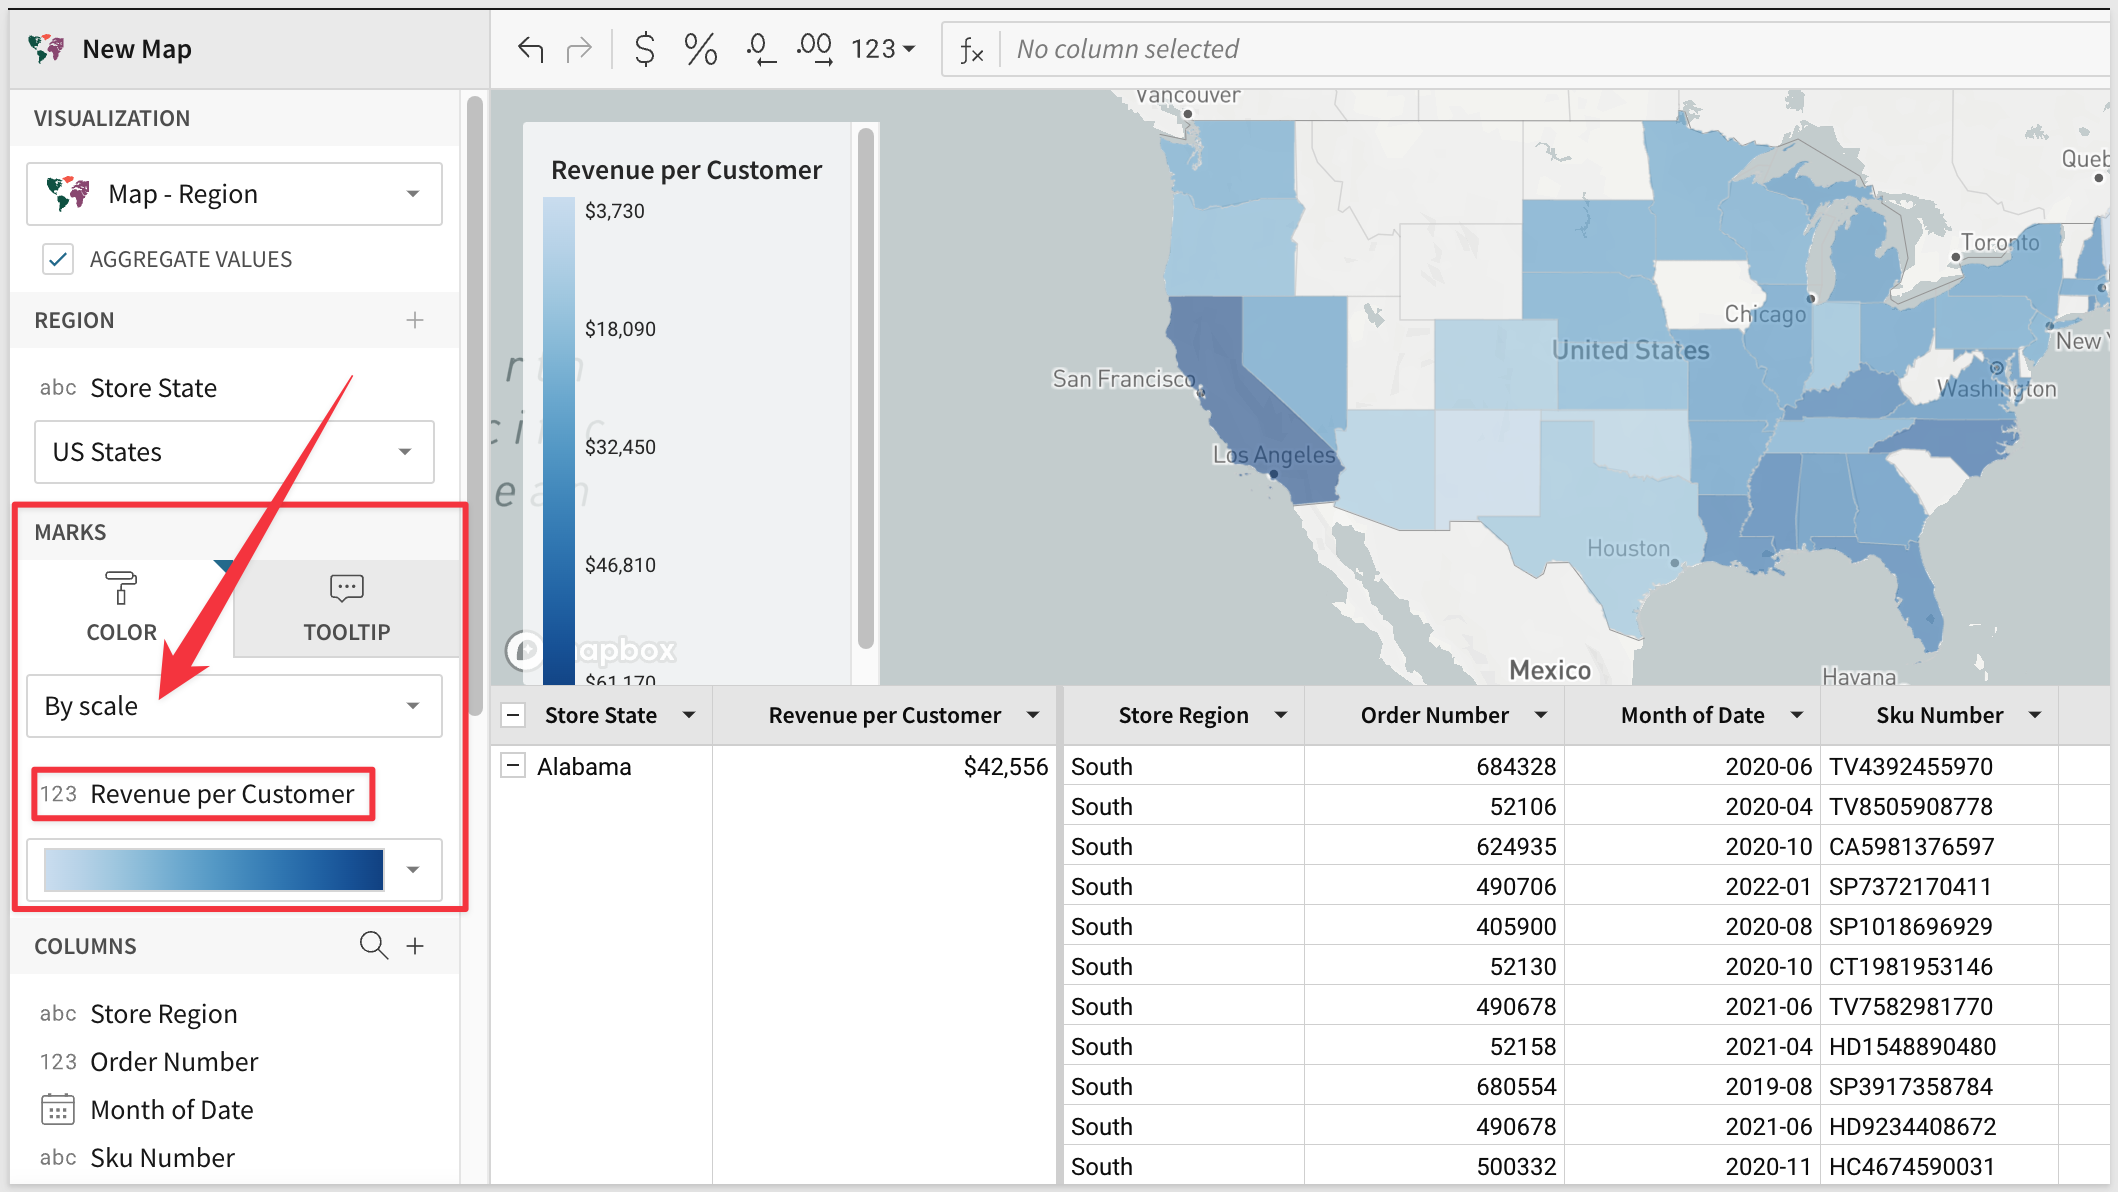
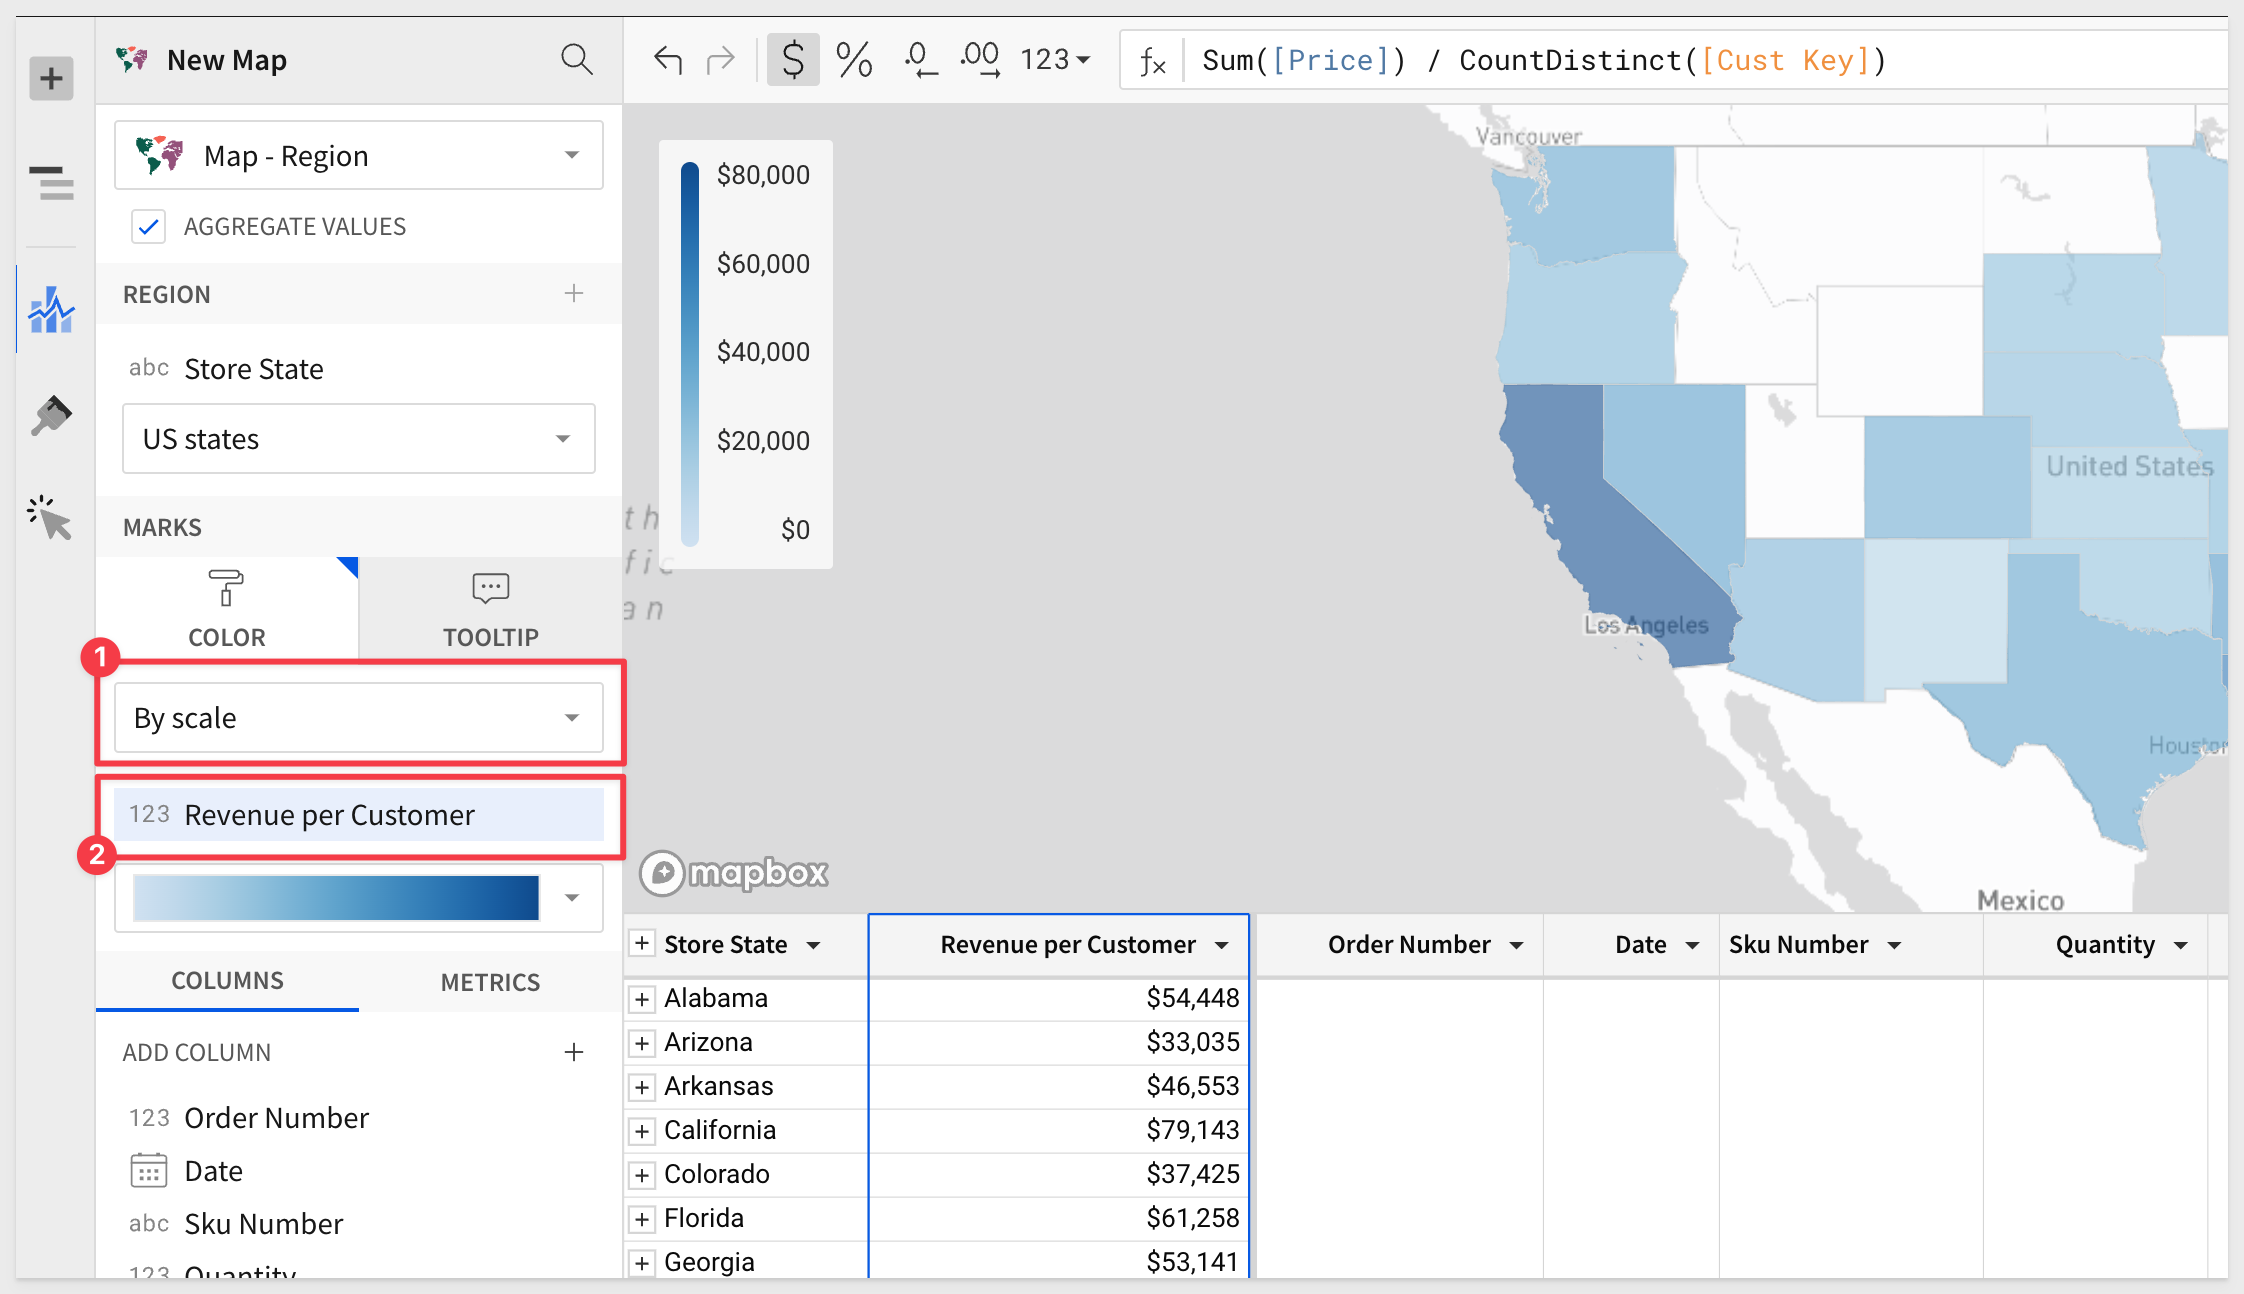
done

diff --git a/site/sigmaguides/src/Fundamentals 3: Working with Vizualizations/Fundamentals 3: Working with Visualizations.md b/site/sigmaguides/src/Fundamentals 3: Working with Vizualizations/Fundamentals 3: Working with Visualizations.md
@@ -229,9 +229,9 @@ Sum([Price]) / CountDistinct([Cust Key])
 
 <img src="assets/maps4.png" width="500"/>
 
-Add the new column `Revenue per Customer` to the `Map color scale` as shown:
+Add the new column `Revenue per Customer` to the `Map color scale` as shown, selecting "By scale" from the drop-list:
 
-<img src="assets/maps5.png" width="500"/>
+<img src="assets/maps5.png" width="800"/>
 
 <aside class="negative">
 <strong>NOTE:</strong><br> When you hover over each US-State, the States data value is shown for us. Right clicking on any State allows you to include/exclude it from the dataset or drill down to the underlying data. 
